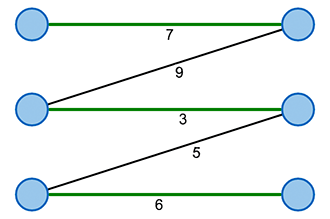
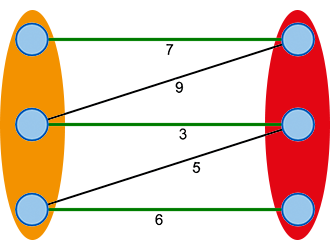
Description corrected

diff --git a/implementation/hungarian/index.html b/implementation/hungarian/index.html
@@ -235,12 +235,12 @@
             <h1>Das Finden von optimalen Matchings</h1>
 
             <p>Im Alltag kann man viele Zuordnungsprobleme finden, die mittels Matchings auf bipartiten Graphen modelliert werden könnnen. Hier möchten wir uns speziell mit gewichteten Zuordnungsproblemen beschäftigen.</p>
-            <p>Als Beispiel betrachten wir folgende Problemstellung: Ein Unternehmer hat in seinem Betrieb eine Menge von Aufgaben, die bearbeitet werden müssen. Seine Mitarbeiter sind aufgrund verschiedener Qualifikationen aber nicht alle gleichermaßen für jede Aufgabe geeignet. Das bedeutet, dass jeder Mitarbeiter eine andere Anzahl von Stunden zur Bearbeitung einer Aufgabe benötigt. Weil der Unternehmer effizient wirtschaften möchte, muss er die Aufgaben so verteilen, dass die Gesamtanzahl der Arbeitsstunden möglichst gering ist.</p>
-            <p>Wir können dieses Problem als bipartiten Graphen mit Knotenmengen \(X\) für die Mitarbeiter und \(Y\) für die Aufgaben darstellen. Die gewichteten Kanten zwischen den Mengen definieren dann die Anzahl der Stunden, die ein Mitarbeiter \(x\) für Aufgabe \(y\) benötigt. Jetzt gilt es ein perfektes Matching zu finden, bei dem die Summe aller Kantengewichte minimal ist.</p>
+            <p>Als Beispiel betrachten wir folgende Problemstellung: Ein Unternehmer hat in seinem Betrieb eine Menge von Aufgaben, die bearbeitet werden müssen. Seine Mitarbeiter sind aufgrund verschiedener Qualifikationen aber nicht alle gleichermaßen für jede Aufgabe geeignet. Das bedeutet, dass alle Mitarbeiter bei der Bearbeitung der Aufgaben jeweils unterschiedliche Effizienzsgrade aufweisen. Weil der Unternehmer möglichst effizient wirtschaften möchte, muss er die Aufgaben so verteilen, dass der Effizienzgrad pro Aufgabe möglichst maximal ist.</p>
+            <p>Wir können dieses Problem als bipartiten Graphen mit Knotenmengen \(X\) (<strong style="color: orange;">orange</strong>) für die Mitarbeiter und \(Y\) (<strong style="color: red;">rot</strong>) für die Aufgaben darstellen (vgl. Bild 1). In folgenden Darstellungen werden wir die Knotenmengen nicht erneut kennzeichnen. Die gewichteten Kanten zwischen den Mengen definieren dann die Anzahl der Stunden, die ein Mitarbeiter \(x\) für Aufgabe \(y\) benötigt. Jetzt gilt es ein perfektes Matching zu finden, bei dem die Summe aller Kantengewichte maximal ist.</p>
             <p>&nbsp;</p>
             
             <h1>Die Ungarische Methode</h1>
-            <p>Das Problem kann mittels der Ungarischen Methode gelöst werden, die 1955 von Harold W. Kuhn auf Grundlage der Ideen zweier ungarische Mathematiker entwickelt wurde. Der Algorithmus wurde später von James Munkres verbessert und basiert auf einem zentralen Theorem für dessen Verständnis wir aber ein paar Begriffe benötigen:</p>
+            <p>Das Problem kann mittels der Ungarischen Methode gelöst werden, die 1955 von Harold W. Kuhn auf Grundlage der Ideen zweier ungarische Mathematiker (Dénes Kőnig und Jenő Egerváry) entwickelt wurde. Der Algorithmus wurde später von James Munkres verbessert und basiert auf einem zentralen Theorem für dessen Verständnis wir aber ein paar Begriffe benötigen:</p>
 
             <p><strong>Markierung</strong><br />
             Wir führen eine einfache Hilfsfunktion oder Markierung \(l\) ein, die jedem Knoten im Graph eine reelle Zahl so zuordnet, dass die Summe der Markierungen zweier Knoten mindestens so groß ist, wie das Kantengewicht \(w\) der Kante, die diese Knoten verbindet (vgl. Bild 2).</p>
@@ -271,7 +271,7 @@
 
             <p>Um das bestehende noch leere Matching zu verbessern, sucht sich der Algorithmus einen Knoten aus \(X\), der noch keinen Matchingpartner besitzt. Ausgehend von diesem, versucht der Algorithmus einen augmentierenden Pfad zu finden. Dazu baut der Algorithmus schrittweise einen alternierenden Pfad, solange bis dieser augmentierend wird oder es keine weitere Kante mehr gibt. Die dabei besuchten Knoten teilen wir in die Mengen \(S\) für besuchte Knoten aus \(X\) und die Menge \(T\) für besuchte Knoten aus \(Y\) ein.</p>
 
-            <p>Es lässt sich nicht immer ein augmentierender Pfad finden. Dann muss der Algorithmus die Markierungen verbessern, indem er zunächst ein \(\Delta\) bestimmt. Der Algorithmus betrachtet alle Paare aus besuchten Knoten \(s \in S\) und unbesuchten Knoten \(y \in Y \setminus T\) und bildet das Minimum aus der Summe ihrer Markierungen abzüglich des Gewichts der Kante zwischen beiden Knoten.</p>
+            <p>Es lässt sich nicht immer ein augmentierender Pfad finden. Dann muss der Algorithmus die Markierungen verbessern. Die Verbesserung muss so erfolgen, dass das aktuelle Matching im Gleichheitsgraph enthalten bleibt. Außerdem muss der Gleichheitsgraph durch neue Kanten so erweitert werden, dass ein neuer alternierender Pfad konstruiert werden kann. Dies geschieht, indem zunächst ein \(\Delta\) bestimmt wird. Der Algorithmus betrachtet alle Paare aus besuchten Knoten \(s \in S\) und unbesuchten Knoten \(y \in Y \setminus T\) und bildet das Minimum aus der Summe ihrer Markierungen abzüglich des Gewichts der Kante zwischen beiden Knoten.</p>
 
             <p style="text-align: center;">\(\Delta = \min\limits_{s \in S\ \wedge\ y \in Y \setminus T}\{l(s) + l(y) - w(s,y)\}\)</p>
 
